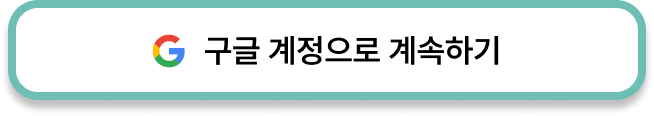
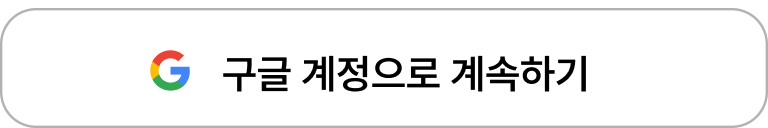
Design : 로그인 페이지 변경

diff --git a/app/page.tsx b/app/page.tsx
@@ -1,4 +1,10 @@
-import { logoImage01, logoImage02 } from "@/public/images";
+import {
+  buttonImage01,
+  buttonImage02,
+  logoImage01,
+  logoImage02,
+  mockup,
+} from "@/public/images";
 import Image from "next/image";
 import Link from "next/link";
 
@@ -6,28 +12,34 @@ export default function Home() {
   const link = "http://13.125.7.51:8080/oauth2/authorization/kakao";
 
   return (
-    <div className="w-full h-[100vh] px-[55px] pt-[55px] pb-[64px]">
+    <div className="w-full h-[100vh] pt-[55px] pl-[26px]">
       <Image
-        className="mt-[100px] m-auto"
-        src={logoImage02}
-        alt="로고2"
-        width={199}
-        height={286.1}
+        className="mb-[12px]"
+        src={logoImage01}
+        alt="로고"
+        width={166}
+        height={39}
       />
-      <Image src={logoImage01} alt="로고" width={359} className="absolute " />
-      <div className="mt-[157px] flex flex-col items-center gap-[17px]">
-        <Link href="/auth/login">
-          <button className="bg-white border-4 border-main text-main_text font-bold text-[25px] w-[317px] h-[61px] rounded-[24px]">
-            로그인
-          </button>
+      <p className="font-extrabold text-[25px] leading-7 mb-[35px]">
+        간편하게 일상생활을 기록하고
+        <br />
+        공유해보세요
+      </p>
+      <div className="flex justify-end w-full pr-3">
+        <Image
+          className="mb-[42px]"
+          src={mockup}
+          alt="배경"
+          width={302}
+          height={602}
+        />
+      </div>
+      <div className="flex gap-5">
+        <Link href={"/auth"}>
+          <Image src={buttonImage01} alt="버튼1" width={181} height={56} />
         </Link>
-        <Link href="/auth/signUp">
-          <button className="bg-white border-4 border-main text-main_text font-bold text-[25px] w-[317px] h-[61px] rounded-[24px]">
-            회원가입
-          </button>
-        </Link>
-        <button className="text-[#565151] font-medium text-[18px]">
-          SNS 계정으로 로그인하기
+        <button>
+          <Image src={buttonImage02} alt="버튼2" width={181} height={56} />
         </button>
       </div>
     </div>

diff --git a/app/auth/page.tsx b/app/auth/page.tsx
@@ -1,4 +1,5 @@
 "use client";
+import Button from "@/components/auth/Button";
 import {
   appleButton,
   googleButton,
@@ -10,7 +11,7 @@ import Image from "next/image";
 import Link from "next/link";
 import React from "react";
 
-const page = () => {
+const AuthPage = () => {
   const link = "http://13.125.7.51:8080/oauth2/authorization/kakao";
 
   const handleLogin = () => {
@@ -18,38 +19,46 @@ const page = () => {
   };
 
   return (
-    <div className="w-full h-[100vh] px-[55px] pt-[55px] pb-[64px]">
+    <div className="w-full h-[100vh] px-[22px] pt-[55px]">
       <Image
-        className="m-auto mt-[100px]"
+        src={logoImage01}
+        alt="로고"
+        width={328}
+        height={77}
+        className="mb-[73px] ml-[45px]"
+      />
+      <Image
+        className="m-auto mb-[78.9px]"
         src={logoImage02}
         alt="로고2"
-        width={199}
+        width={197}
         height={286.1}
       />
-      <Image src={logoImage01} alt="로고" width={359} className="absolute" />
-      <div className="flex flex-col gap-[20px] mb-[63.31px] mt-[130px]">
+      <p className="mb-3 font-extrabold">3초 가입으로 바로 시작해보세요. </p>
+
+      <div className="flex flex-col gap-[23.33px] mb-[63.31px]">
         <Link href={link}>
           <Image
             src={kakaoButton}
             alt="카카오로그인버튼"
-            width={319}
-            height={50}
+            width={386}
+            height={60.4}
           />
         </Link>
         <Link href={link}>
           <Image
             src={appleButton}
             alt="애플로그인버튼"
-            width={319}
-            height={50}
+            width={386}
+            height={60.4}
           />
         </Link>
         <Link href={link}>
           <Image
             src={googleButton}
             alt="구글로그인버튼"
-            width={319}
-            height={50}
+            width={386}
+            height={60.4}
           />
         </Link>
       </div>
@@ -57,4 +66,4 @@ const page = () => {
   );
 };
 
-export default page;
+export default AuthPage;

diff --git a/public/images/index.ts b/public/images/index.ts
@@ -7,8 +7,8 @@ import logoImage02 from "@/public/images/auth/image03.png";
 import kakaoButton from "@/public/images/auth/kakaoButton.png";
 import appleButton from "@/public/images/auth/appleButton.png";
 import googleButton from "@/public/images/auth/googleButton.png";
-import emailButton from "@/public/images/auth/emailButton.png";
 import background from "@/public/images/background.png";
+import mockup from "@/public/images/auth/mockup.png";
 
 export {
   kakaoLoginButtonImage,
@@ -20,6 +20,6 @@ export {
   appleButton,
   googleButton,
   kakaoButton,
-  emailButton,
   background,
+  mockup,
 };

diff --git a/app/layout.tsx b/app/layout.tsx
@@ -9,7 +9,7 @@ export default function RootLayout({
     <html lang="en">
       <body className="">
         <div className="flex flex-col items-center bg-slate-300">
-          <div className="max-w-[430px] min-h-screen w-full h-full bg-main bg-cover bg-center flex justify-center items-center ">
+          <div className="max-w-[430px] min-h-screen w-full h-full bg-white flex justify-center items-center ">
             {children}
           </div>
         </div>
